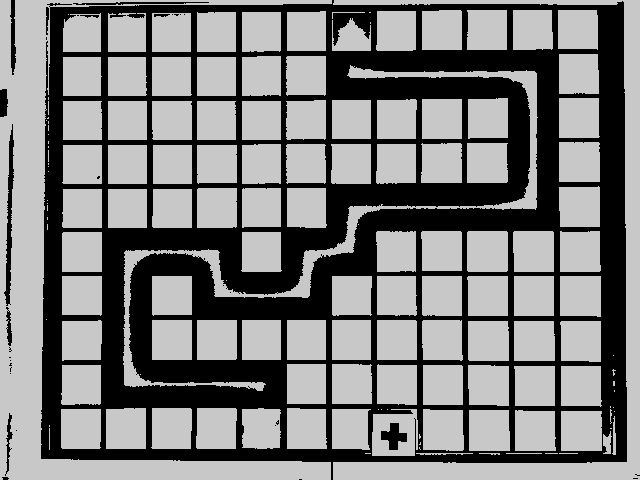
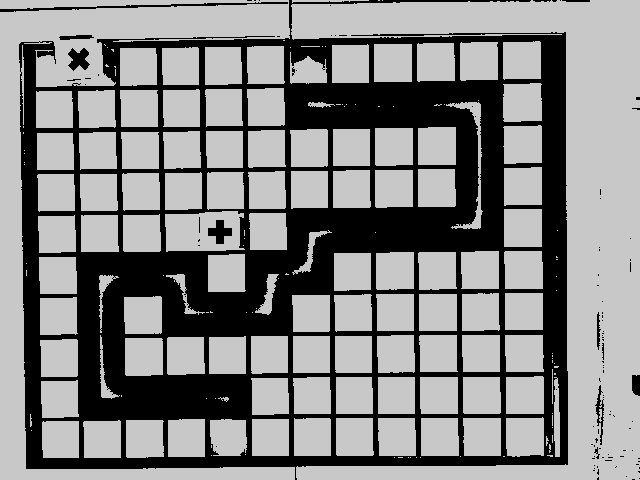
Working game v1
- Works for two towers with detection etc.

diff --git a/P3_Product/Assets/Scripts/PixelToPosition.cs b/P3_Product/Assets/Scripts/PixelToPosition.cs
@@ -34,15 +34,14 @@ public class PixelToPosition : MonoBehaviour {
         arrayPos = gridMsg.Split(":"[0]);
         for (int i = 0; i < 92 ; i++)
         {
-           
             tempCoords = arrayPos[i].Split(","[0]);
             tempX = int.Parse(tempCoords[0]);
             tempY = int.Parse(tempCoords[1]);
-            xValues[i] = tempX;
+            xValues[i] = tempX - 30;
             yValues[i] = tempY;
             Debug.Log("Node"+(i+1)+"s X value is " + xValues[i] + " | Y value is " + yValues[i]);
         }
-        
+
         #region Node area definitions.
  
         if (x >= xValues[91] && x <= xValues[90] && y <= yValues[80] && y >= yValues[91])
@@ -297,13 +296,13 @@ public class PixelToPosition : MonoBehaviour {
             // place at E4
             return "E4";
         }
-        else if (x >= xValues[47] && x <= xValues[46] && y <= yValues[36] && y >= yValues[47])
+        else if (x >= xValues[47] && x <= xValues[46] && y <= 250 && y >= yValues[47])
         {
             
             // place at E5
             return "E5";
         }
-        else if (x >= xValues[46] && x <= xValues[45] && y <= yValues[35] && y >= yValues[46])
+        else if (x >= xValues[46] && x <= xValues[45] && y <= 250 && y >= yValues[46])
         {
             
             // place at E6
@@ -321,13 +320,13 @@ public class PixelToPosition : MonoBehaviour {
             // place at F1
             return "F1";
         }
-        else if (x >= xValues[43] && x <= xValues[42] && y <= yValues[32] && y >= yValues[43])
+        else if (x >= 195 && x <= 250 && y <= 300 && y >= 250)
         {
             
             // place at F2
             return "F2";
         }
-        else if (x >= xValues[42] && x <= xValues[41] && y <= yValues[31] && y >= yValues[42])
+        else if (x >= 330 && x <= 375 && y <= 300 && y >= 250)
         {
             
             // place at F3

diff --git a/P3_Product/Assets/Scripts/PlaceTower.cs b/P3_Product/Assets/Scripts/PlaceTower.cs
@@ -150,13 +150,13 @@ public class PlaceTower : MonoBehaviour
        if (tile != "None")
        {
             // instantiate a tower on tile
-            if (type.Equals("t1"))
+            if (type.Equals("t1") && GameMaster.Currency >= cost)
             {
                 tower = (GameObject)Instantiate(towerPrefab, GameObject.FindGameObjectWithTag(tile).transform.position, Quaternion.identity);
                 // remove currency from player
                 GameMaster.Currency -= cost;
             }
-          else if (type.Equals("t2"))
+          else if (type.Equals("t2") && GameMaster.Currency >= cost2)
             {
                 tower = (GameObject)Instantiate(towerPrefab2, GameObject.FindGameObjectWithTag(tile).transform.position, Quaternion.identity);
                 // remove currency from player

diff --git a/P3_Product/PythonTCP/OpenCV.py b/P3_Product/PythonTCP/OpenCV.py
@@ -47,7 +47,7 @@ class OpenCV:
         # debug for visible representation of detection
         print("displaying match at position: ")
         w, h = bTemp.shape[::-1]                         # x and y coordinates of detected object
-        location = np.where(result >= 0.63)                  # 0.7 is accuracy used when finding position???
+        location = np.where(result >= 0.62)                  # 0.7 is accuracy used when finding position???
                                                             # return x and y coordinates of detected object
 
         for pt in zip(*location[::-1]):
